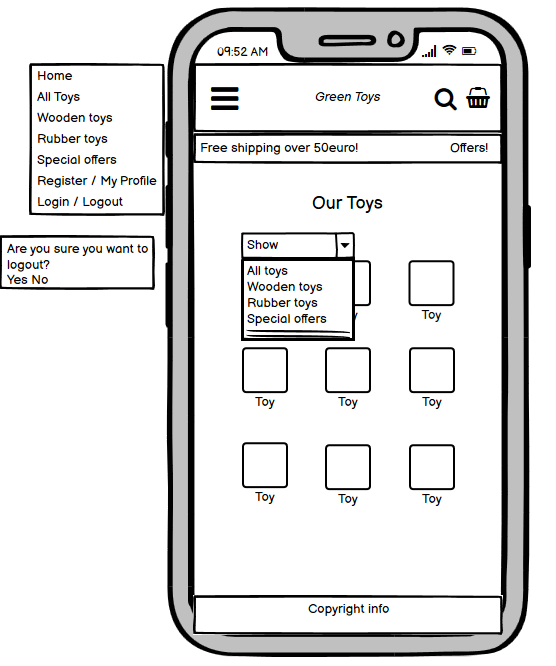
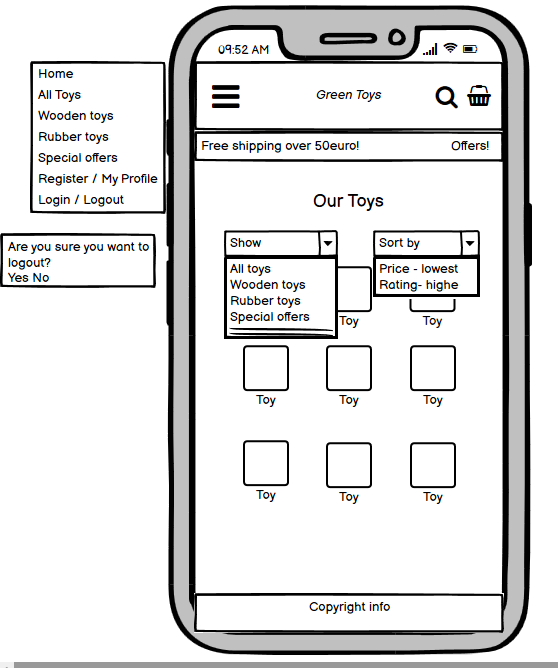
Added more user stories and wireframes

diff --git a/README.md b/README.md
@@ -72,9 +72,59 @@ The ideal client for this website is:
 
 ![Image of wireframe showing product details on web page](/static/readme-assets/readme-images/product_detail_web.png)
 
-4. As a shopper, I want to be able to easily view deals and special offers on products so that I can take advantage of special prizes on products that I am interested in Buying
+4. As a shopper, I want to be able to easily view deals and special offers on products so that I can take advantage of special prizes on products that I am interested in buying
 
 ![Image of wireframe showing campaign section](/static/readme-assets/readme-images/campaigns.png)
 
+5. As a shopper, I want to be able to Easily see the total of all items in my shopping cart from all parts of the site so that I can avoid spending more money than I was planning to
+
+![Image of wireframe showing shopping cart](/static/readme-assets/readme-images/shopping_cart.png)
+
+6. As as a shopper I want to be able to easily see what rating different products have gotten so that i can see what others think of the product that I am interested in
+
+![Image of wireframe showing close up of product icon on product page](/static/readme-assets/readme-images/product_closeup.png)
+
+7. As a shopper I want to be able to easily see what products have got the highest ratings so that I can find the most popular products
+
+![Image of wireframe showing popular products section on home page](/static/readme-assets/readme-images/popular.png)
+
+8. As a site user, I want to be able to find information about eco-friendly toys so that I can learn more about different materials and their impact on environment and why eco-friendly toys are important
+
+![Image of wireframe showing blog page on mobile](/static/readme-assets/readme-images/blog_mobile.png)
+
+![Image of wireframe showing blog page on web](/static/readme-assets/readme-images/blog_web.png)
+
+9. As a site user I want to be able to easily register for an account so that I can have a personal account to come back to and view my profile
 
 
+10. As a site user I want to be able to easily log in or out so that I can access my personal account information
+
+
+11. As a site user I want to be able to easily recover my password in case I forget it so that I can regain access to my account
+
+
+12. As a site user I want to be able to recieve a confirmation email after registering an account so that I can know that my account registration was successful
+
+
+13. As a site user I want to be able to Have a personalized user profile so that I can View my order history and see that my orders are confirmed and save my payment information
+
+
+14. As a shopper I want to be able to select which category of products to show so that I can easily find a product within the category that I am interested in
+
+15. As a shopper I want to be able to select to show only products with a special prize offer so that I can find only the products with the most favoureable prizes
+
+![Image of wireframe showing close up of dropdown with choice of category to show](/static/readme-assets/readme-images/categories.png)
+
+16. As a shopper I want to be able to sort each chosen category of product by different parameters so that I can easily find the products with the best rating or lowest price in that category
+
+![Image of wireframe showing close up of dropdown with choice of parameter to sort the product list by](/static/readme-assets/readme-images/sortby_closeup.png)
+
+17. As a shopper I want to be able to search for a product by name or description so that I can easily find a specific product that I am looking to buy
+
+![Image of wireframe showing close up of search field](/static/readme-assets/readme-images/search.png)
+
+18. As a shopper I want to be able to easily see what I have searched for and the number of results so that I can identify miss-spellings in my search string and quickly overview the search result
+
+![Image of wireframe showing search results page](/static/readme-assets/readme-images/search-results.png)
+
+19. 
